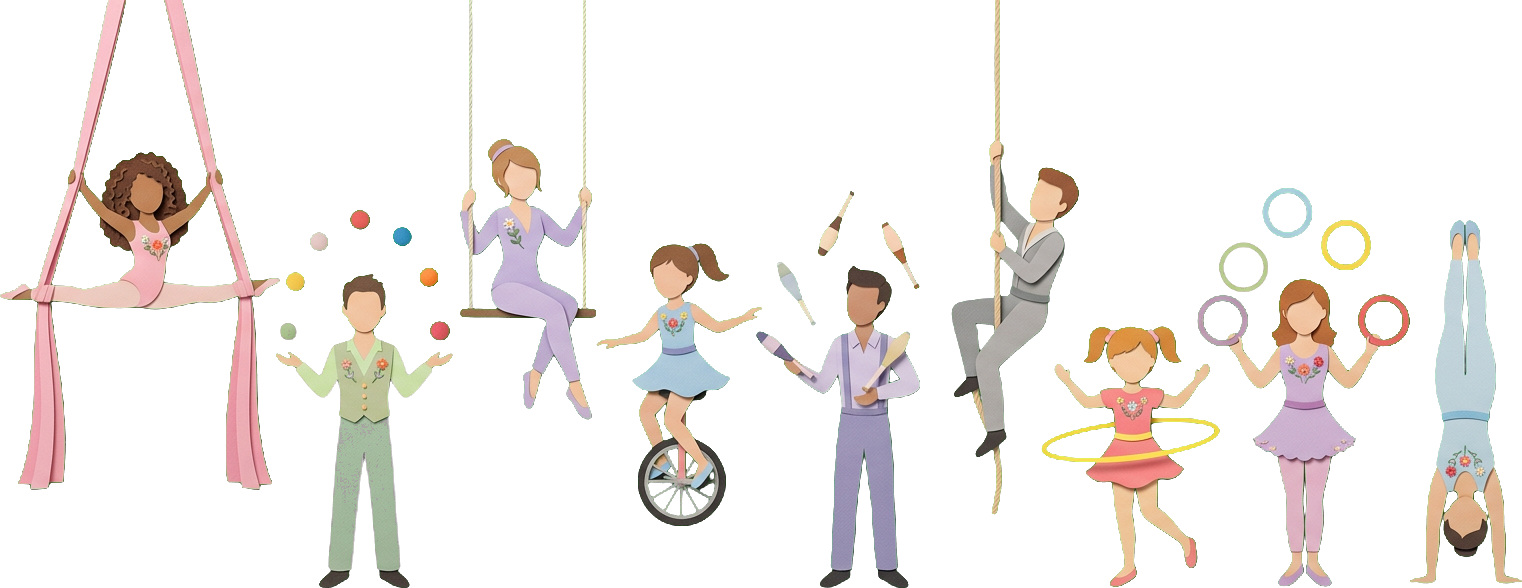
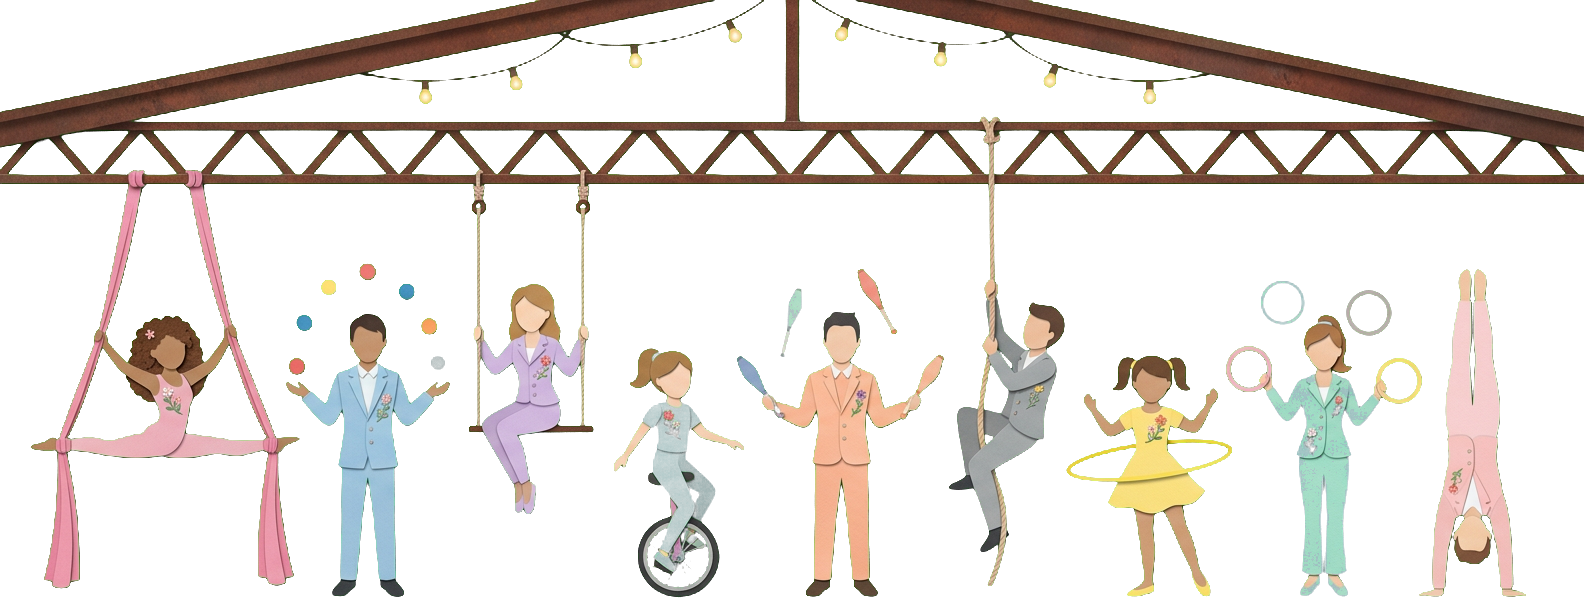
Add warehouse roof truss to events circus illustration

diff --git a/app/programacion/page.tsx b/app/programacion/page.tsx
@@ -194,7 +194,7 @@ function ProgramacionContent() {
           </InteractivePageHeader>
         </div>
         <div aria-hidden="true" className="pointer-events-none mx-auto mt-10 w-full max-w-7xl px-4 lg:px-8">
-          <div className="relative mx-auto aspect-[1522/588] w-full max-w-5xl">
+          <div className="relative mx-auto aspect-[1584/598] w-full max-w-5xl">
             <Image
               src="/images/eventos-troupe.png"
               alt=""
